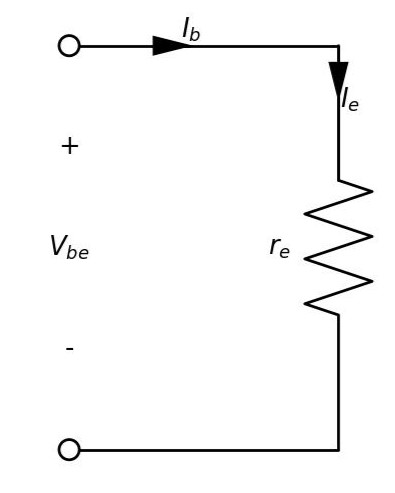
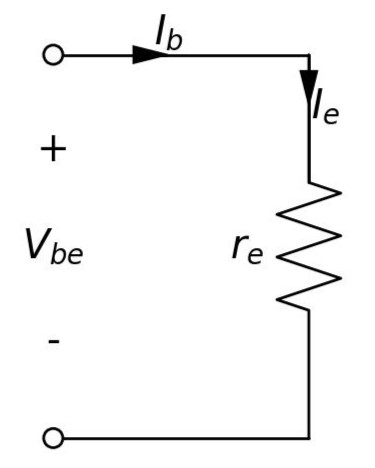
I made increased the font size.
I made increased the font size. This makes the LaTex integration nice.

diff --git a/r_e model CE ckt_6-1 cmplt eq model.py b/r_e model CE ckt_6-1 cmplt eq model.py
@@ -2,7 +2,7 @@ import schemdraw
 import schemdraw.elements as elm
 
 with schemdraw.Drawing() as d:
-    d.config(fontsize=20)
+    d.config(fontsize=30)
     d += (L1 := elm.Line().left().dot(open=True).length(2))
     d += (L3 := elm.Line().down().at(L1.start).length(1))
     d += (R1 := elm.Resistor().down().at(L3.start).label('$\\beta r_e$'))
@@ -13,5 +13,5 @@ with schemdraw.Drawing() as d:
     d += (S1 := elm.SourceControlledI().reverse().up().label('$\\beta I_b$', 'bot'))
     d += (L5 := elm.Line().right().length(3).at(S1.start).dot(open=True))
     d += (L6 := elm.Line().right().length(3).at(S1.end).dot(open=True))
-    d += (H2 := elm.Gap().endpoints(L5.end, L6.end).label(('+', '$V_{ce}$', '-')))
+    d += (H2 := elm.Gap().endpoints(L6.end, L5.end).label(('+', '$V_{ce}$', '-')))
     d += (R2 := elm.Resistor().endpoints(L5.center, L6.center).label('$r_o$', 'bot'))

diff --git a/r_e model CE ckt_6 tot eq model.py b/r_e model CE ckt_6 tot eq model.py
@@ -2,7 +2,7 @@ import schemdraw
 import schemdraw.elements as elm
 
 with schemdraw.Drawing() as d:
-    d.config(fontsize=20)
+    d.config(fontsize=30)
     d += (L1 := elm.Line().left().dot(open=True).length(2))
     d += (L3 := elm.Line().down().at(L1.start).length(1))
     d += (R1 := elm.Resistor().down().at(L3.start).label('$\\beta r_e$'))
@@ -13,4 +13,4 @@ with schemdraw.Drawing() as d:
     d += (S1 := elm.SourceControlledI().reverse().up().label('$\\beta I_b$', 'bot'))
     d += (L5 := elm.Line().right().length(2).at(S1.start).dot(open=True))
     d += (L6 := elm.Line().right().length(2).at(S1.end).dot(open=True))
-    d += (H2 := elm.Gap().endpoints(L5.end, L6.end).label(('+', '$V_{ce}$', '-')))
+    d += (H2 := elm.Gap().endpoints(L6.end, L5.end).label(('+', '$V_{ce}$', '-')))

diff --git a/r_e model CE ckt_5 o_p side.py b/r_e model CE ckt_5 o_p side.py
@@ -2,7 +2,7 @@ import schemdraw
 import schemdraw.elements as elm
 
 with schemdraw.Drawing() as d:
-    d.config(fontsize=20)
-    d += (L1 := elm.Line().right().dot(open=True).length(2))
+    d.config(fontsize=30)
+    d += (L1 := elm.Line().right().dot(open=True).length(1))
     d += (S1 := elm.SourceControlledI().down().at(L1.start).label('$\\beta I_b$'))
-    d += (L2 := elm.Line().right().at(S1.end).dot(open=True).length(2))
+    d += (L2 := elm.Line().right().at(S1.end).dot(open=True).length(1))

diff --git a/r_e model CE ckt_3-1 eq i-p side.py b/r_e model CE ckt_3-1 eq i-p side.py
@@ -2,7 +2,7 @@ import schemdraw
 import schemdraw.elements as elm
 
 with schemdraw.Drawing() as d:
-    d.config(fontsize=20)
+    d.config(fontsize=30)
     d += (L1 := elm.Line().left().dot(open=True).length(2))
     d += (L3 := elm.Line().down().at(L1.start).length(1))
     d += (R1 := elm.Resistor().down().at(L3.start).label('$Z_i = \\beta r_e$'))

diff --git a/r_e model CE ckt_3 replaced r_e.py b/r_e model CE ckt_3 replaced r_e.py
@@ -2,7 +2,7 @@ import schemdraw
 import schemdraw.elements as elm
 
 with schemdraw.Drawing() as d:
-    d.config(fontsize=20)
+    d.config(fontsize=30)
     d += (L1 := elm.Line().left().dot(open=True).length(2))
     d += (L3 := elm.Line().down().at(L1.start).length(1))
     d += (R1 := elm.Resistor().down().at(L3.start).label('$r_e$'))

diff --git a/r_e model CE ckt_4 tot eq ckt.py b/r_e model CE ckt_4 tot eq ckt.py
@@ -2,7 +2,7 @@ import schemdraw
 import schemdraw.elements as elm
 
 with schemdraw.Drawing() as d:
-    d.config(fontsize=20)
+    d.config(fontsize=30)
     d += (L1 := elm.Line().left().dot(open=True).length(2))
     d += (L3 := elm.Line().down().at(L1.start).length(1))
     d += (R1 := elm.Resistor().down().at(L3.start).label('$r_e$'))

diff --git a/r_e model CE ckt_2 input side.py b/r_e model CE ckt_2 input side.py
@@ -2,7 +2,7 @@ import schemdraw
 import schemdraw.elements as elm
 
 with schemdraw.Drawing() as d:
-    d.config(fontsize=20)
+    d.config(fontsize=30)
     d += (L1 := elm.Line().left().dot(open=True).length(2))
     d += (L3 := elm.Line().down().at(L1.start).length(1))
     d += (D1 := elm.Diode().down().at(L3.start))
